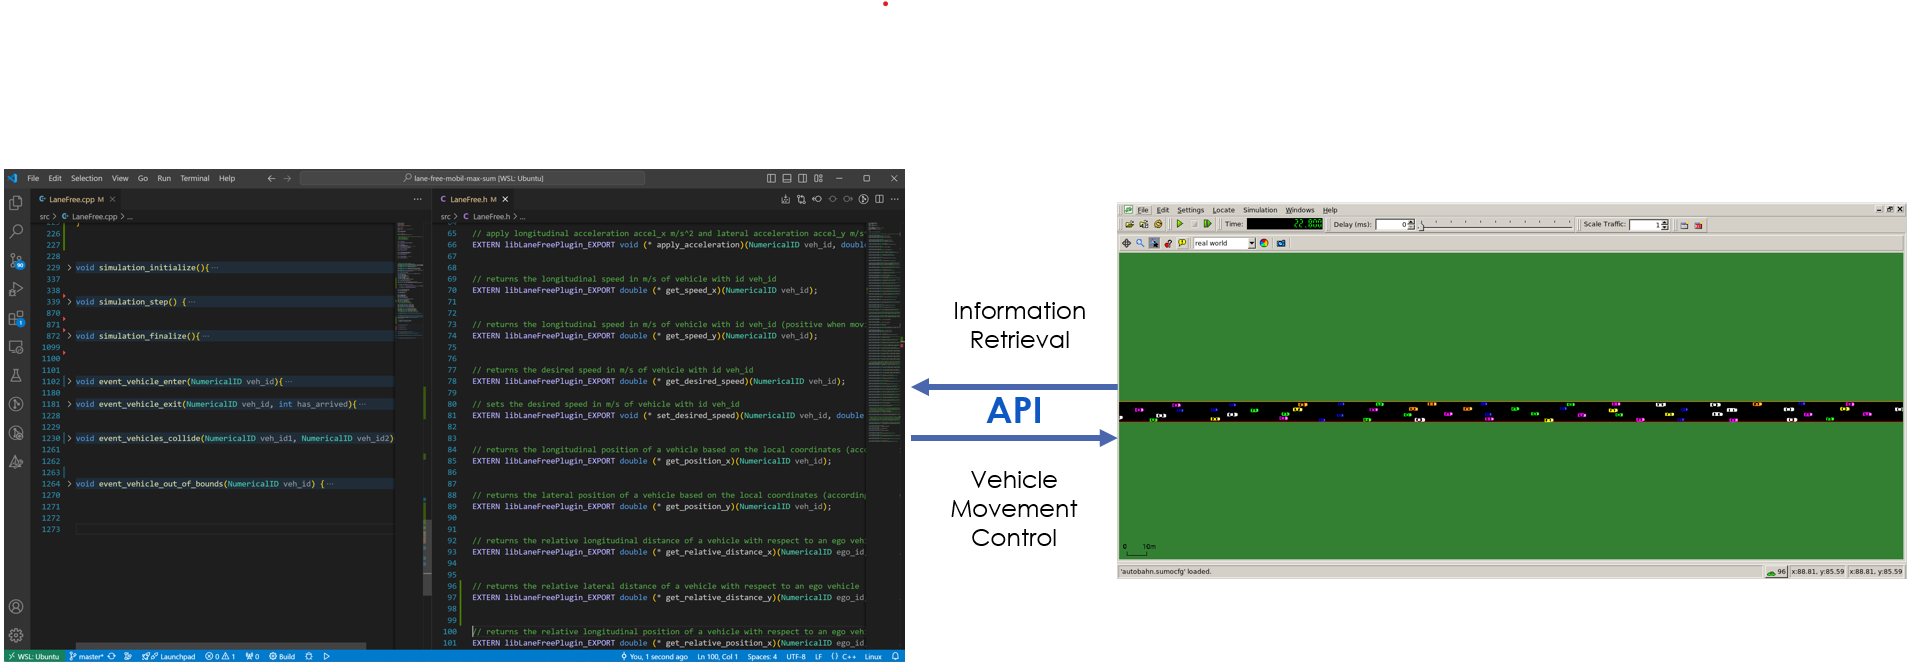
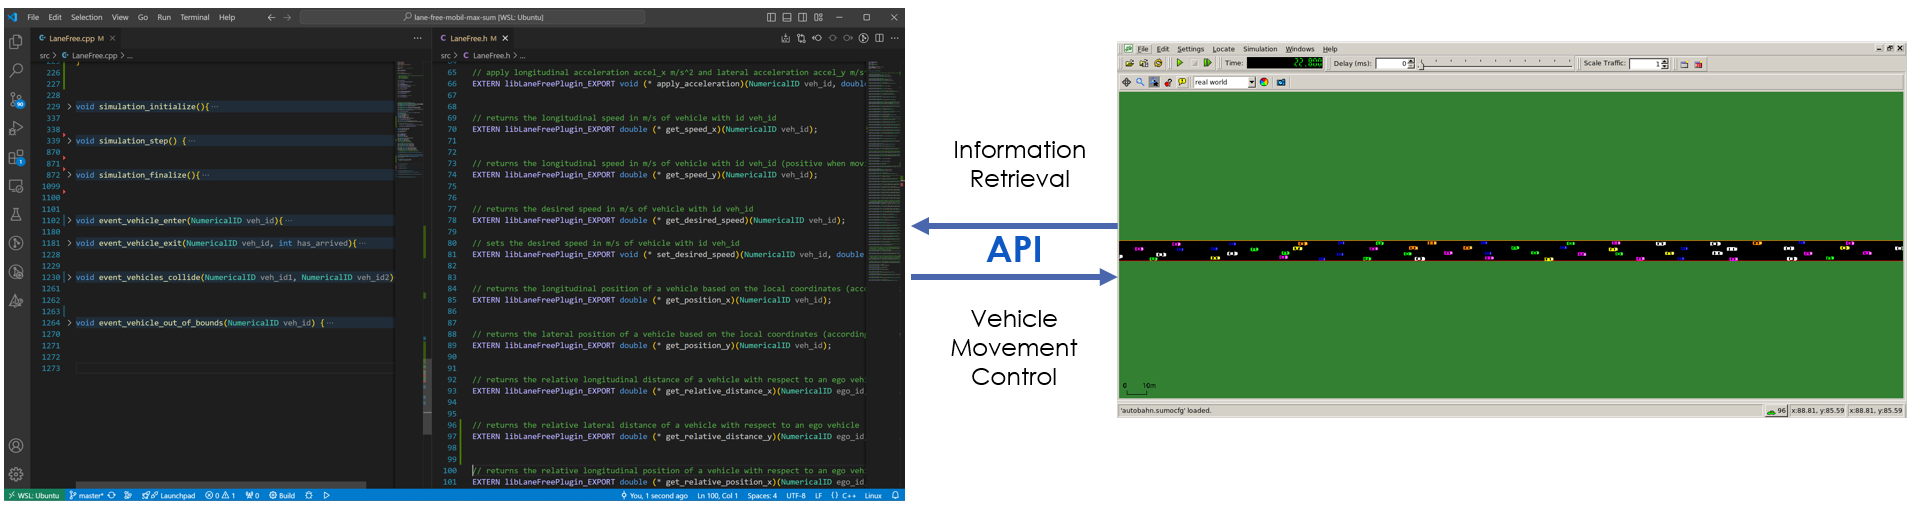
update readme text and related images

diff --git a/README.md b/README.md
@@ -10,10 +10,10 @@ Highlighted Features:
 * Design from scratch and test lane-free vehicle movement strategies in C/C++, with an API that provides information about the traffic environment, 
 effectively emulating vehicle-to-vehicle and vehicle-to-infrastructure communication.
 
-<p align="center"><img width=85% src="README_images/tsim_overview.png"></p>
+<p align="center"><img width=55% src="README_images/tsim_overview.png"></p>
 
 * Each API function call in the code is accompanied with a concise description of its usage and functionality.
-<p align="center"><img width=95% src="README_images/tsim_overview_gui.png"></p>
+<p align="center"><img width=90% src="README_images/tsim_overview_gui.png"></p>
 
 * The underlying movement dynamics of vehicles can be either the double integrator model for both the longitudinal (x) and lateral (y) axis, 
 or a bicycle model that better captures the orientation of the vehicles as well.
